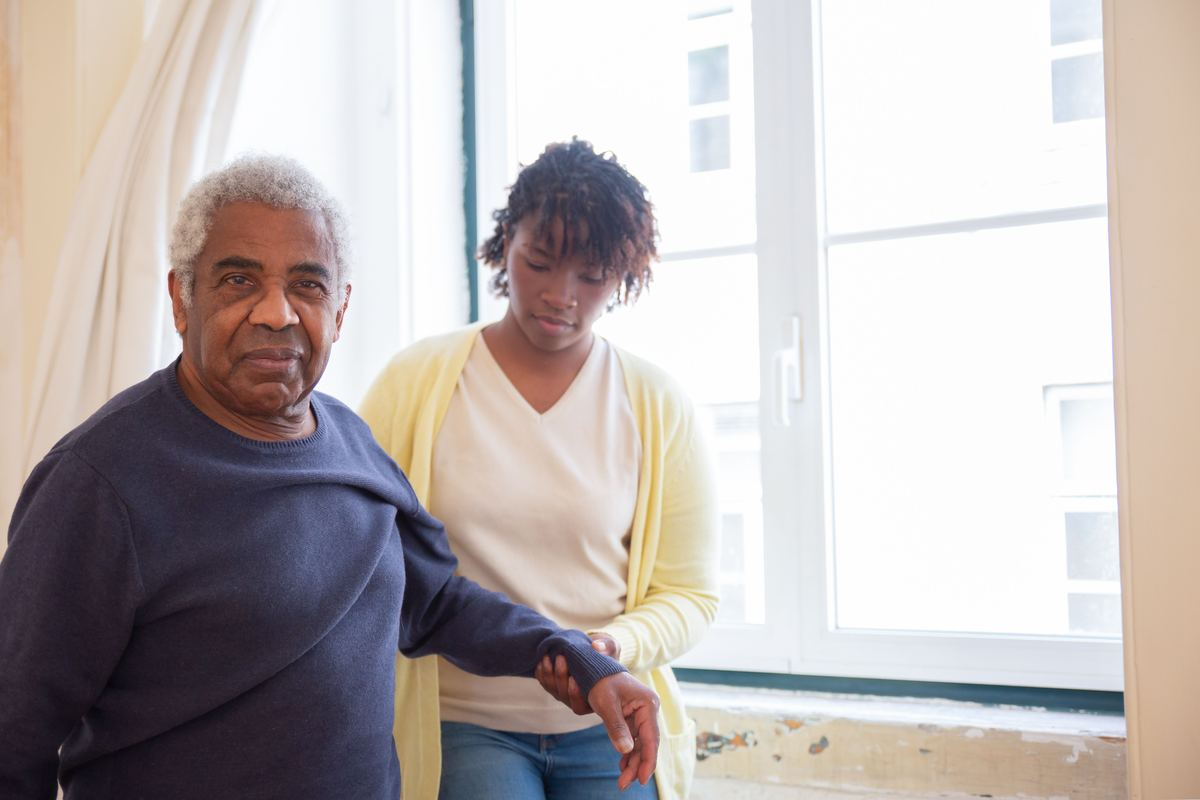
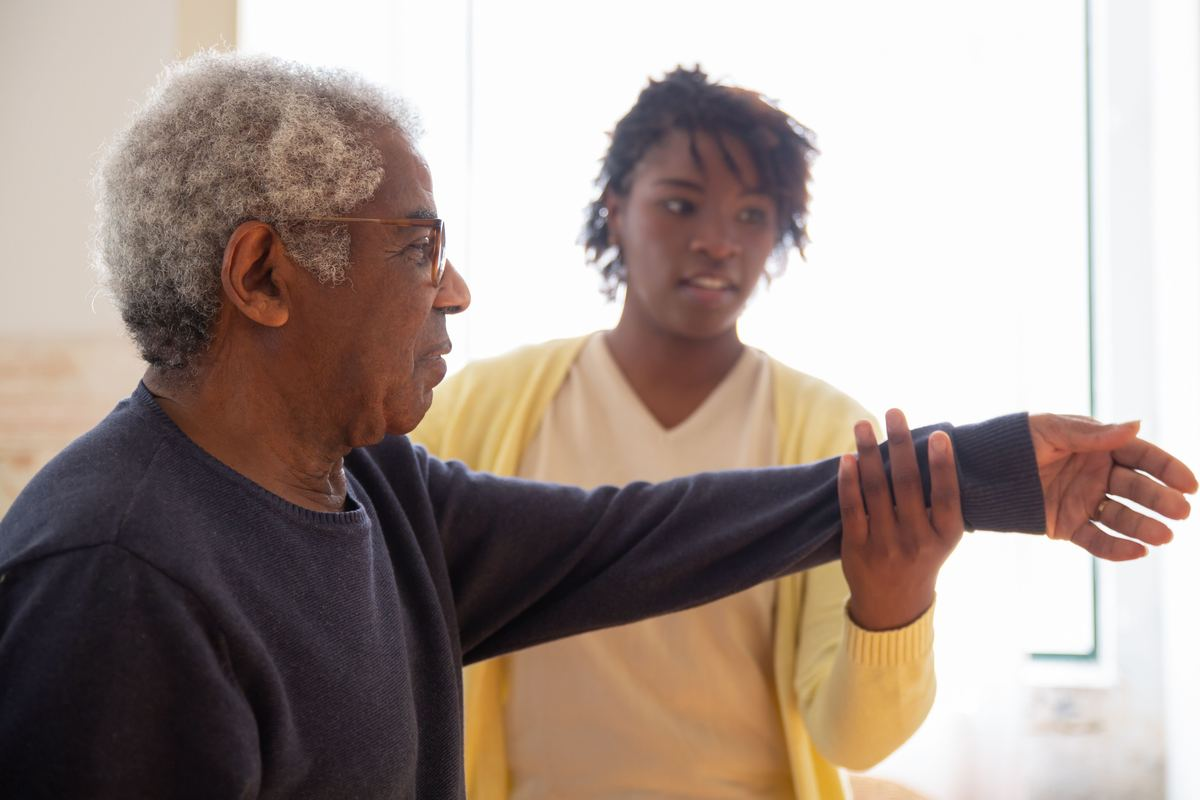
Replace hero and Über-uns photos with higher-quality stock images
The previous photos (busy 3-person hero, overexposed Über-uns shot)
were noticeably lower quality than the rest of the site's imagery.
Swapped in two free, Pexels-licensed photos from the same photographer
(Kampus Production) as the existing Pflegegeld photo, for a consistent,
polished look: a bright living-room moment for the hero (also used on
every subpage hero banner), and a warm, backlit mobility-support photo
for Über uns. Compressed with the project's existing Pillow pipeline.

diff --git a/index.html b/index.html
@@ -487,7 +487,7 @@
 
       <div class="ueberuns-media">
         <div class="ueberuns-media-frame">
-          <img src="images/illustrations/ueberuns-photo.jpg" alt="Pflegekraft unterstützt einen Senior beim Gehen" loading="lazy">
+          <img src="images/illustrations/ueberuns-photo.jpg" alt="Pflegekraft unterstützt einen Senior bei Bewegungsübungen zu Hause" loading="lazy">
         </div>
         <div class="ueberuns-badge">
           <span class="ueberuns-badge-icon">
